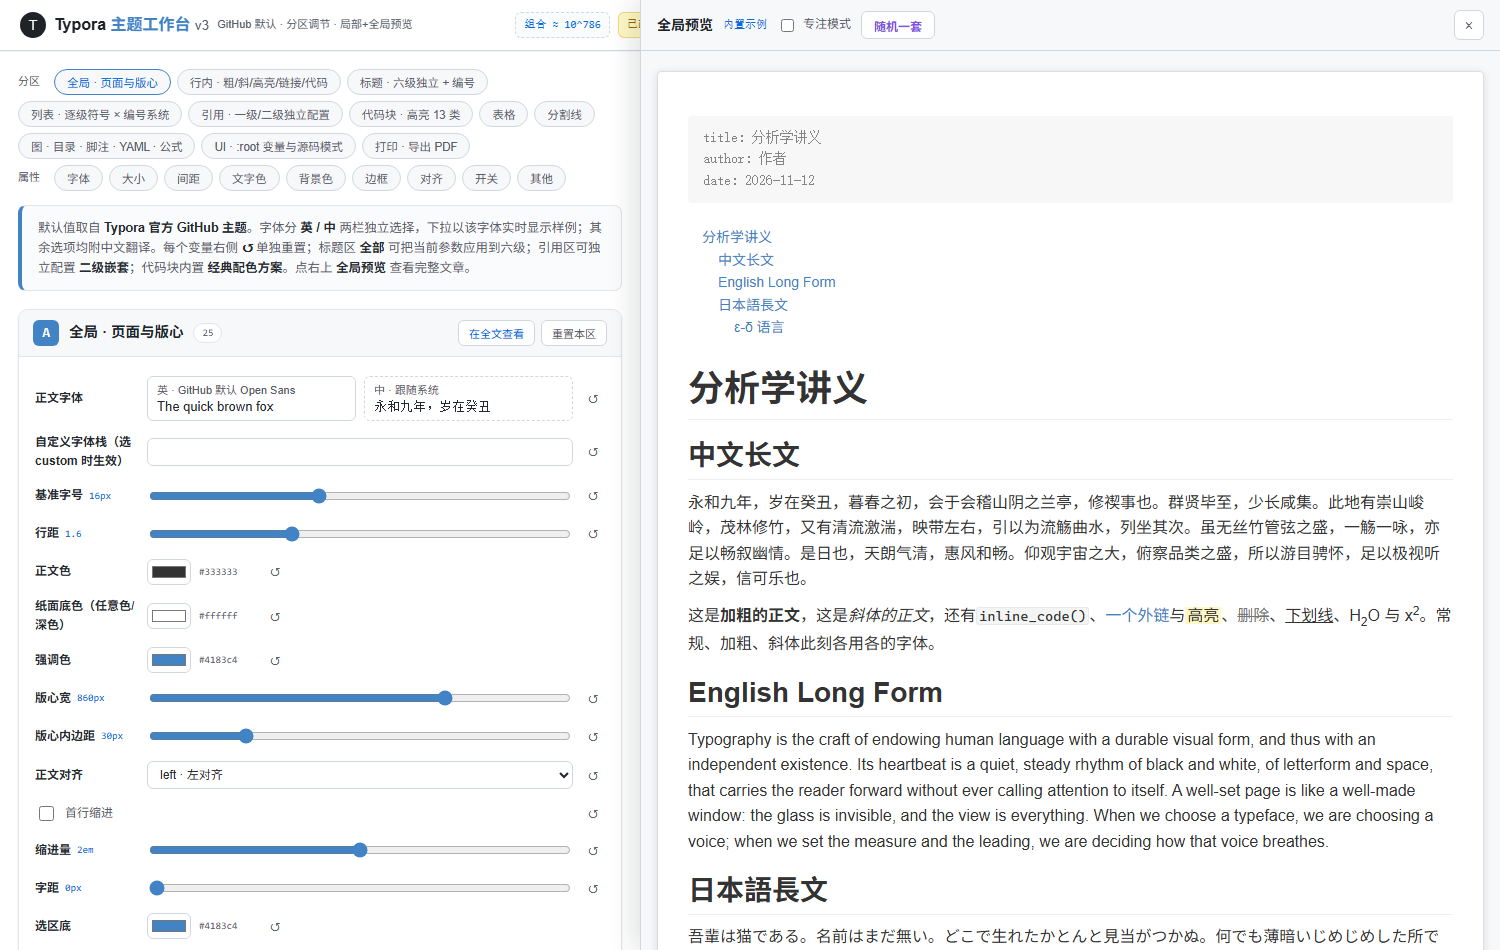
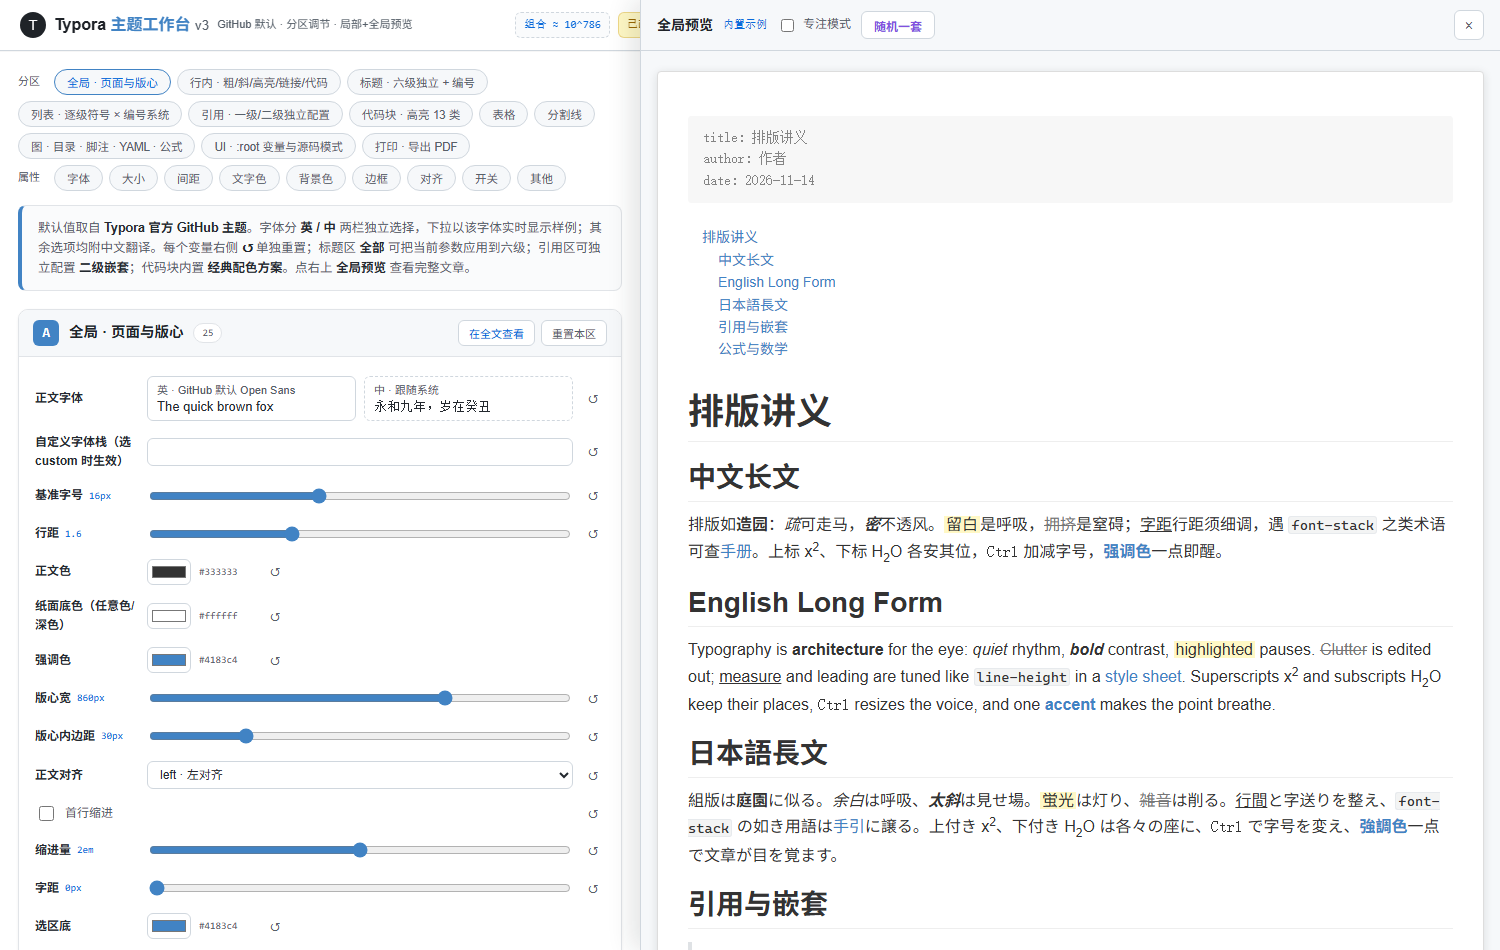
content: 三语预览段落各自融入全部行内样式，引用加英文，公式区补中英说明与公式
- 中/英/日每段自然嵌入加粗/斜体/粗斜/高亮/删除/下划线/行内代码/链接/上下标/kbd/强调色
- 引用一级与嵌套均含英文句，可预览引用英文字体
- I 区与全局演示的公式区含中文+英文+日文说明、行内公式与公式块
- 全局演示重写为《排版讲义》，删除 core 中被覆盖的旧 SAMPLE_MD

Changed region(s): [[0.46, 0.3358, 0.9813, 1.0], [0.4907, 0.1221, 0.552, 0.1526], [0.46, 0.2442, 0.5213, 0.2747]]

diff --git a/index.html b/index.html
@@ -664,28 +664,6 @@ function mdToHtml(src){
   var fhtml='';fnOrder.forEach(function(id){fhtml+='<div class="md-def-footnote">['+fn[id].n+'] '+inline(fn[id].text,fn)+'</div>'});
   return yaml+out.join('\n')+fhtml;
 }
-var SAMPLE_MD=[
-'---','title: 分析学讲义','author: 作者','date: 2026-11-12','---','',
-'[toc]','',
-'# 分析学讲义','',
-'## 第一章 极限','',
-'这是**加粗的正文**，这是*斜体的正文*，还有`inline_code()`、[一个外链](https://example.org)与==高亮==、~~删除~~、<u>下划线</u>、H~2~O 与 x^2^。常规、加粗、斜体此刻各用各的字体。','',
-'### ε-δ 语言','',
-'设 f 在 a 的某去心邻域内有定义。若 ∀ε>0，∃δ>0，使当 0<|x−a|<δ 时恒有 |f(x)−L|<ε，则称 L 为 f 在 a 处的极限。[^1]','',
-'> 引用块：可独立设字体、字号、颜色、边框。中文斜体常以楷体替代。','> > 嵌套引用逐级可改。','',
-'#### 四级标题','##### 五级标题','###### 六级标题','',
-'- 一级无序','  - 二级无序','    - 三级无序','- 另一项','',
-'1. 一级有序','   1. 二级有序','      1. 三级有序','2. 另一项','',
-'- [x] 任务已完成','- [ ] 任务未完成','',
-'```python','def limit(f, a, eps=1e-6):','    # 数值验证极限定义','    for delta in map(lambda k: 10**(-k), range(1, 7)):','        if abs(f(a + delta) - L) < eps:','            return True','    raise ValueError("not converged")','```','',
-'| 概念 | 记号 | 要点 |','|:--|:-:|--:|','| 极限 | lim | ε-δ 语言 |','| 连续 | C(a) | 极限值=函数值 |','| 一致连续 | UC | δ 与点无关 |','| 可积 | R[a,b] | 不连续点测度零 |','',
-'---','',
-'![fig1](./figures/fig1.svg)','',
-'图 1：图片宽度、圆角、阴影、边框、滤镜皆可调。','',
-'$$','lim sup |a_n| ≤ ∫ f(x) dx ,  ∑ aₙ xⁿ ,  ∂u/∂t = α ∇²u','$$','',
-'行内公式 $e^{iπ}+1=0$。日本語：吾輩は猫である。名前はまだ無い。English: The quick brown fox jumps over the lazy dog.','',
-'[^1]: 脚注：字号、颜色、上边框线型独立。',''
-].join('\n');
 
 var LETTERS='ABCDEFGHIJK';
 var secs=el('secs'),hLevel=1,ddKey=null;
@@ -751,22 +729,22 @@ function fontLabel(k){
   if(isCnKey(k)){return '<span class="nm">中 · '+m.cn+'</span><span class="sm" style="font-family:'+cnPreviewStack(v).replace(/"/g,"'")+'">'+CN_SHORT+'</span>'}
   return '<span class="nm">英 · '+m.cn+' '+m.en+'</span><span class="sm" style="font-family:'+fam(v,'auto').replace(/"/g,"'")+'">'+EN_SHORT+'</span>';
 }
-var CN_LONG='永和九年，岁在癸丑，暮春之初，会于会稽山阴之兰亭，修禊事也。群贤毕至，少长咸集。此地有崇山峻岭，茂林修竹，又有清流激湍，映带左右，引以为流觞曲水，列坐其次。虽无丝竹管弦之盛，一觞一咏，亦足以畅叙幽情。是日也，天朗气清，惠风和畅。仰观宇宙之大，俯察品类之盛，所以游目骋怀，足以极视听之娱，信可乐也。';
-var EN_LONG='Typography is the craft of endowing human language with a durable visual form, and thus with an independent existence. Its heartbeat is a quiet, steady rhythm of black and white, of letterform and space, that carries the reader forward without ever calling attention to itself. A well-set page is like a well-made window: the glass is invisible, and the view is everything. When we choose a typeface, we are choosing a voice; when we set the measure and the leading, we are deciding how that voice breathes.';
-var JA_LONG='吾輩は猫である。名前はまだ無い。どこで生れたかとんと見当がつかぬ。何でも薄暗いじめじめした所でニャーニャー泣いていた事だけは記憶している。吾輩はここで始めて人間というものを見た。しかもあとで聞くとそれは書生という人間中で一番獰悪な種族であったそうだ。この書生というのは時々我々を捕えて煮て食うという話である。';
+var CN_LONG='排版如**造园**：*疏*可走马，***密***不透风。==留白==是呼吸，~~拥挤~~是窒碍；<u>字距</u>行距须细调，遇 `font-stack` 之类术语可查[手册](https://example.org)。上标 x^2^、下标 H~2~O 各安其位，<kbd>Ctrl</kbd> 加减字号，【强调】一点即醒。';
+var EN_LONG='Typography is **architecture** for the eye: *quiet* rhythm, ***bold*** contrast, ==highlighted== pauses. ~~Clutter~~ is edited out; <u>measure</u> and leading are tuned like `line-height` in a [style sheet](https://example.org). Superscripts x^2^ and subscripts H~2~O keep their places, <kbd>Ctrl</kbd> resizes the voice, and one [accent] makes the point breathe.';
+var JA_LONG='組版は**庭園**に似る。*余白*は呼吸、***太斜***は見せ場。==蛍光==は灯り、~~雑音~~は削る。<u>行間</u>と字送りを整え、`font-stack` の如き用語は[手引](https://example.org)に譲る。上付き x^2^、下付き H~2~O は各々の座に、<kbd>Ctrl</kbd> で字号を変え、【強調】一点で文章が目を覚ます。';
 var FRAG=[
- '## 版心与全局\n\n'+CN_LONG+'\n\n'+EN_LONG+'\n\n'+JA_LONG+'\n\n普通 **加粗** *斜体* ***粗斜*** ==高亮== ~~删除~~ <u>下划线</u> `code` [链接](https://example.org) x^2^ H~2~O <kbd>Ctrl</kbd> 与【强调】。',
- '普通 **加粗** *斜体* ***粗斜*** ==高亮== ~~删除~~ <u>下划线</u> `code` [链接](https://example.org) x^2^ H~2~O <kbd>Ctrl</kbd>',
+ '## 版心与全局\n\n'+CN_LONG+'\n\n'+EN_LONG+'\n\n'+JA_LONG,
+ '普通 **加粗** *斜体* ***粗斜*** ==高亮== ~~删除~~ <u>下划线</u> `code` [链接](https://example.org) x^2^ H~2~O <kbd>Ctrl</kbd> 与【强调】。\n\nPlain **bold** *italic* ***bold-italic*** ==mark== ~~del~~ <u>underline</u> `code` [link](https://example.org) x^2^ H~2~O <kbd>Ctrl</kbd> and [accent].\n\n普通 **太字** *斜体* ***太斜*** ==蛍光== ~~取消~~ <u>下線</u> `code` [リンク](https://example.org) x^2^ H~2~O <kbd>Ctrl</kbd> と【強調】。',
  '# 一级标题\n## 二级标题\n### 三级标题\n#### 四级标题\n##### 五级标题\n###### 六级标题',
  '- 一级无序\n  - 二级无序\n    - 三级无序\n- 另一项\n\n1. 一级有序\n   1. 二级有序\n      1. 三级有序\n2. 另一项\n\n- [x] 已完成\n- [ ] 未完成',
- '> 引用：字体、字号、颜色、背景、边框、对齐独立可调。\n> > 嵌套引用逐级可改。',
+ '> 引用：字体、字号、颜色、背景、边框、对齐独立可调。Typography sets the *voice* of a **quote** in its own typeface.\n> > 嵌套引用逐级可改。Nested quotes restyle per level: ==mark==, `code`, [link](https://example.org), x^2^ and H~2~O.',
  '```python\ndef limit(f, a, eps=1e-6):\n    # 数值验证\n    for d in map(lambda k: 10**(-k), range(1,7)):\n        if abs(f(a+d)-L) < eps:\n            return True\n    raise ValueError("no")\n```',
  '| 概念 | 记号 | 要点 |\n|:--|:-:|--:|\n| 极限 | lim | ε-δ |\n| 连续 | C(a) | 极限=函数值 |\n| 可积 | R[a,b] | 测度零 |',
  '上文段落。\n\n---\n\n下文段落。',
- '---\ntitle: YAML\n---\n\n[toc]\n\n# 标题一\n## 标题二\n\n![fig](./figures/fig1.svg)\n\n$$\ne^{iπ}+1=0\n$$\n\n脚注[^1]。\n\n[^1]: 脚注内容。'
+ '---\ntitle: YAML\n---\n\n[toc]\n\n# 标题一\n## 标题二\n\n公式：欧拉恒等式 $e^{iπ}+1=0$ 将五个常数连为一体。English: the identity $e^{iπ}+1=0$ links five constants in a single line.\n\n$$\ne^{iπ}+1=0 ,  ∑ aₙ xⁿ ,  ∂u/∂t = α ∇²u\n$$\n\n![fig](./figures/fig1.svg)\n\n脚注[^1]。\n\n[^1]: 脚注内容。'
 ];
 var VIEW=['#gpv h1','#gpv p','#gpv h2','#gpv ul','#gpv blockquote','#gpv pre.md-fences','#gpv table','#gpv hr','#gpv img',null,null];
-var UIMOCK='<div class="uimock"><div class="sb"><div class="tabs"><span>文件</span><span>大纲</span><span>搜索</span></div><div class="file active">📄 分析学讲义.md</div><div class="file">📁 figures/</div><div class="file">📄 README.md</div></div><div class="ed"><div class="tb"><span>分析学讲义.md — Typora</span><span>字数 1,024</span></div>UI 组件预览：侧栏 / 悬停 / 选中 / 窗口框 / 主按钮，全部由 :root 变量驱动。<br><span class="btn">主按钮</span></div></div>';
+var UIMOCK='<div class="uimock"><div class="sb"><div class="tabs"><span>文件</span><span>大纲</span><span>搜索</span></div><div class="file active">📄 排版讲义.md</div><div class="file">📁 figures/</div><div class="file">📄 README.md</div></div><div class="ed"><div class="tb"><span>排版讲义.md — Typora</span><span>字数 1,024</span></div>UI 组件预览：侧栏 / 悬停 / 选中 / 窗口框 / 主按钮，全部由 :root 变量驱动。<br><span class="btn">主按钮</span></div></div>';
 var KINDS=[['font','字体'],['size','大小'],['gap','间距'],['text','文字色'],['bg','背景色'],['border','边框'],['align','对齐'],['chk','开关'],['other','其他']];
 function kindOf(it){
   var k=it.k,t=it.t;
@@ -846,7 +824,8 @@ function apply(){
   renderPrint();
   saveDraft();refreshUndo();syncScheme();
 }
-function fillLocal(){for(var i=0;i<SCH.length;i++){var box=el('lpv-'+i);if(!box)continue;if(i===9)box.innerHTML=UIMOCK;else if(i===10)continue;else{var h=mdToHtml(FRAG[i]);if(i===0)h=h.replace('【强调】','<span class="acc-demo">强调色</span>');box.innerHTML=h}}}
+function accDemo(h){return h.replace('【强调】','<span class="acc-demo">强调色</span>').replace('[accent]','<span class="acc-demo">accent</span>').replace('【強調】','<span class="acc-demo">強調色</span>')}
+function fillLocal(){for(var i=0;i<SCH.length;i++){var box=el('lpv-'+i);if(!box)continue;if(i===9)box.innerHTML=UIMOCK;else if(i===10)continue;else{var h=mdToHtml(FRAG[i]);if(i<2)h=accDemo(h);box.innerHTML=h}}}
 var toastT=null;
 function toast(m){var t=el('toast');t.textContent=m;t.classList.add('on');clearTimeout(toastT);toastT=setTimeout(function(){t.classList.remove('on')},1800)}
 var FEAT_EN=['inherit','custom','github','century','serif','sans','mono'];
@@ -1162,22 +1141,24 @@ el('i-apply').addEventListener('click',function(){
 });
 el('b-load').addEventListener('click',function(){el('mdfile').click()});
 el('mdfile').addEventListener('change',function(){var f=this.files&&this.files[0];if(!f)return;var rd=new FileReader();rd.onload=function(){el('gpv').innerHTML=mdToHtml(String(rd.result));el('mdname').textContent=f.name;apply();openDrawer();toast('已载入 '+f.name)};rd.readAsText(f);this.value=''});
-el('b-sample').addEventListener('click',function(){el('gpv').innerHTML=mdToHtml(SAMPLE_MD);el('mdname').textContent='内置示例';apply();toast('已恢复内置示例')});
+el('b-sample').addEventListener('click',function(){el('gpv').innerHTML=accDemo(mdToHtml(SAMPLE_MD));el('mdname').textContent='内置示例';apply();toast('已恢复内置示例')});
 (function(){var log=0;function cnt(it){if(it.t==='sel')return Math.log10(it.o.length);if(it.t==='rng')return Math.log10(Math.round((it.max-it.min)/it.step)+1);if(it.t==='col')return Math.log10(16777216);if(it.t==='chk')return Math.log10(2);return 0}SCH.forEach(function(g){g.items.forEach(function(it){log+=cnt(it)})});for(var n=1;n<=6;n++)HPROP.forEach(function(f){log+=cnt(f(n))});el('combo').textContent='组合 ≈ 10^'+Math.round(log);el('combo').title='所有控件独立取值相乘；含自定义文本则趋于无穷。'})();
-SAMPLE_MD=[
-'---','title: 分析学讲义','author: 作者','date: 2026-11-12','---','',
+var SAMPLE_MD=[
+'---','title: 排版讲义','author: 作者','date: 2026-11-14','---','',
 '[toc]','',
-'# 分析学讲义','',
+'# 排版讲义','',
 '## 中文长文','',
 CN_LONG,'',
-'这是**加粗的正文**，这是*斜体的正文*，还有`inline_code()`、[一个外链](https://example.org)与==高亮==、~~删除~~、<u>下划线</u>、H~2~O 与 x^2^。常规、加粗、斜体此刻各用各的字体。','',
 '## English Long Form','',
 EN_LONG,'',
 '## 日本語長文','',
 JA_LONG,'',
-'### ε-δ 语言','',
-'设 f 在 a 的某去心邻域内有定义。若 ∀ε>0，∃δ>0，使当 0<|x−a|<δ 时恒有 |f(x)−L|<ε，则称 L 为 f 在 a 处的极限。[^1]','',
-'> 引用块：可独立设字体、字号、颜色、边框。中文斜体常以楷体替代。','> > 嵌套引用逐级可改。','',
+'## 引用与嵌套','',
+'> 引用：字体、字号、颜色、背景、边框、对齐独立可调。Typography sets the *voice* of a **quote** in its own typeface.','> > 嵌套引用逐级可改。Nested quotes restyle per level: ==mark==, `code`, [link](https://example.org), x^2^ and H~2~O.','',
+'## 公式与数学','',
+'极限的 ε-δ 语言：若 ∀ε>0，∃δ>0，使当 0<|x−a|<δ 时恒有 |f(x)−L|<ε，则称 L 为 f 在 a 处的极限。[^1]','',
+'$$','lim sup |a_n| ≤ ∫ f(x) dx ,  ∑ aₙ xⁿ ,  ∂u/t = α ∇²u','$$','',
+'English: the heat equation above diffuses *temperature* at rate α; inline, $e^{iπ}+1=0$ is the identity of Euler. 中文：上式为热传导方程，行内 $e^{iπ}+1=0$ 即欧拉恒等式。日本語：数式もまた組版の一部である。','',
 '#### 四级标题','##### 五级标题','###### 六级标题','',
 '- 一级无序','  - 二级无序','    - 三级无序','- 另一项','',
 '1. 一级有序','   1. 二级有序','      1. 三级有序','2. 另一项','',
@@ -1187,15 +1168,13 @@ JA_LONG,'',
 '---','',
 '![fig1](./figures/fig1.svg)','',
 '图 1：图片宽度、圆角、阴影、边框、滤镜皆可调。','',
-'$$','lim sup |a_n| ≤ ∫ f(x) dx ,  ∑ aₙ xⁿ ,  ∂u/∂t = α ∇²u','$$','',
-'行内公式 $e^{iπ}+1=0$。日本語：吾輩は猫である。English: The quick brown fox jumps over the lazy dog.','',
 '[^1]: 脚注：字号、颜色、上边框线型独立。',''
 ].join('\n');
 var hadDraft=loadDraft();
 renderSections();
 initSchemeUI();
 fillLocal();
-el('gpv').innerHTML=mdToHtml(SAMPLE_MD);
+el('gpv').innerHTML=accDemo(mdToHtml(SAMPLE_MD));
 apply();
 qnavSync();
 if(hadDraft)toast('已恢复浏览器草稿（全部重置可回到 GitHub 默认）');
